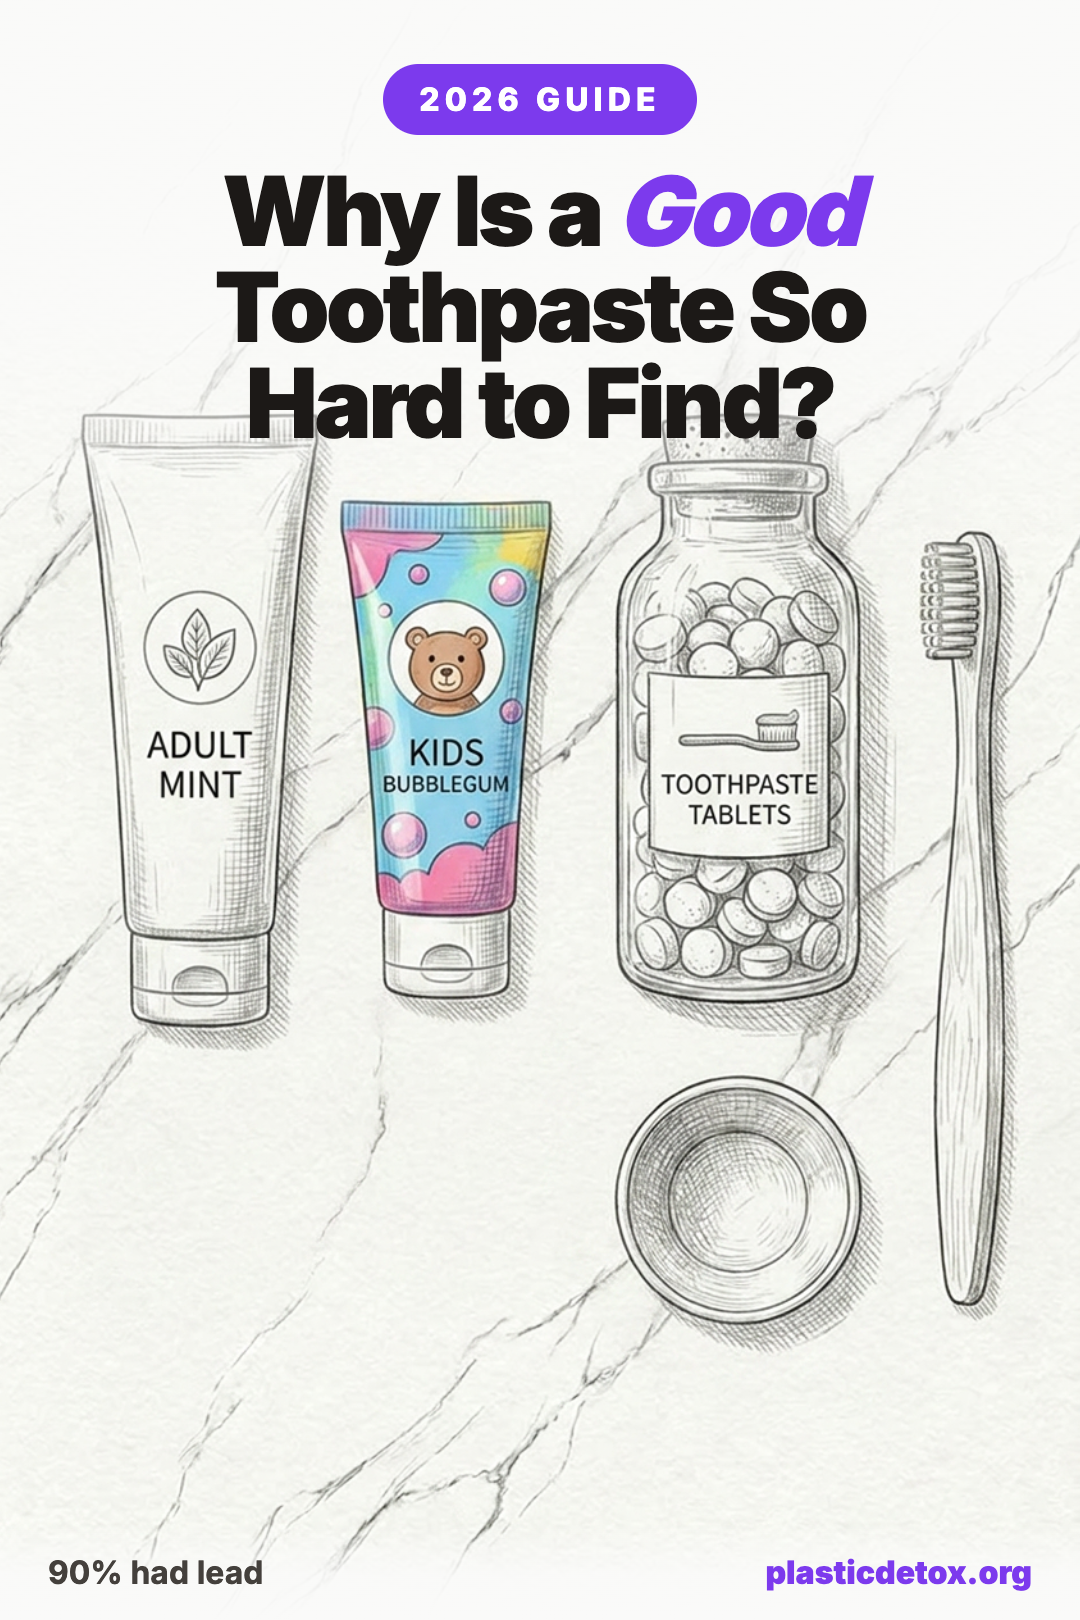
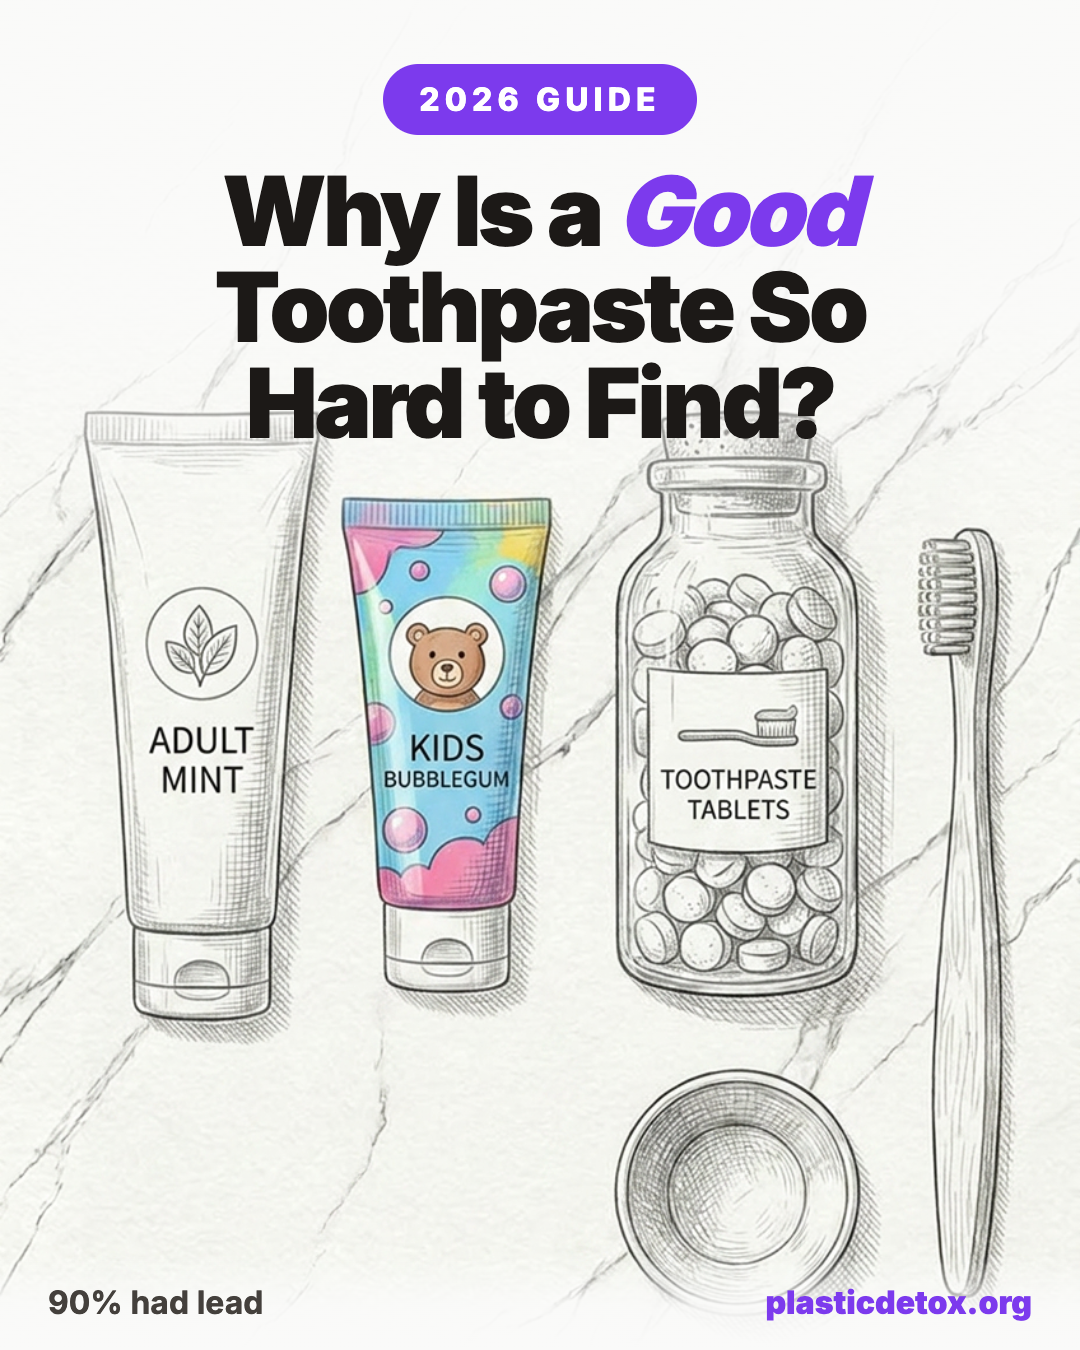
Toothpaste hero: rebuild at canonical 1080x1350 matching hidden-food reference
Render the hero at 1080x1350 (the actual site standard, like
hidden-food-processing-article-hero) using object-position top so the
products fill the frame and the empty marble bottom is cropped out, with
no distortion. Add the Pinterest Save button and full pin CSS to match the
reference. Ship under a new filename (v3) so browsers fetch it fresh.

diff --git a/articles/best-non-toxic-toothpaste-guide.html b/articles/best-non-toxic-toothpaste-guide.html
@@ -13,15 +13,15 @@
   <meta property="og:title" content="Best Non Toxic Toothpaste (2026): Why It Is So Hard to Find a Good One">
   <meta property="og:description" content="The real issues with fluoride, what independent lab tests found on mineral toothpastes and heavy metals, and why the formula matters more than the packaging. Plus the best hydroxyapatite and plastic free picks.">
   <meta property="og:url" content="https://plasticdetox.org/articles/best-non-toxic-toothpaste-guide.html">
-  <meta property="og:image" content="https://plasticdetox.org/images/toothpaste-article-hero-v2.webp">
+  <meta property="og:image" content="https://plasticdetox.org/images/toothpaste-article-hero-v3.webp">
   <meta property="og:image:width" content="1080">
-  <meta property="og:image:height" content="1620">
+  <meta property="og:image:height" content="1350">
   <meta property="og:site_name" content="Plastic Detox">
 
   <meta name="twitter:card" content="summary_large_image">
   <meta name="twitter:title" content="Best Non Toxic Toothpaste (2026): Why It Is So Hard to Find a Good One">
   <meta name="twitter:description" content="The real issues with fluoride, what independent lab tests found on mineral toothpastes and heavy metals, and why the formula matters more than the packaging.">
-  <meta name="twitter:image" content="https://plasticdetox.org/images/toothpaste-article-hero-v2.webp">
+  <meta name="twitter:image" content="https://plasticdetox.org/images/toothpaste-article-hero-v3.webp">
 
   <script type="application/ld+json">
   {
@@ -34,7 +34,7 @@
     "datePublished": "2026-06-18",
     "dateModified": "2026-06-18",
     "lastReviewed": "2026-06-18",
-    "image": "https://plasticdetox.org/images/toothpaste-article-hero-v2.webp",
+    "image": "https://plasticdetox.org/images/toothpaste-article-hero-v3.webp",
     "mainEntityOfPage": "https://plasticdetox.org/articles/best-non-toxic-toothpaste-guide.html"
   }
   </script>
@@ -153,6 +153,15 @@
   <link rel="stylesheet" href="../css/article.css">
   <style>
     .pin-container { position: relative; margin: 2rem 0; }
+    .pin-container:hover .pin-button { opacity: 1; }
+    .pin-button {
+      position: absolute; top: 16px; left: 16px; display: flex; align-items: center; gap: 6px;
+      background: #e60023; color: #fff; border: none; border-radius: 24px; padding: 10px 16px;
+      font-family: 'Inter', sans-serif; font-size: 0.85rem; font-weight: 700; cursor: pointer;
+      opacity: 0; transition: opacity 0.2s; z-index: 2; text-decoration: none; box-shadow: 0 2px 8px rgba(0,0,0,0.2);
+    }
+    .pin-button:hover { background: #ad081b; }
+    .pin-button svg { width: 18px; height: 18px; fill: #fff; }
     .pin-img { width: 100%; border-radius: var(--radius-sm); display: block; }
     .product-grid { display: grid; grid-template-columns: repeat(auto-fill, minmax(200px, 1fr)); gap: 1rem; margin: 1.5rem 0 2rem; }
     .product-card { background: var(--surface); border-radius: var(--radius); text-decoration: none; color: inherit; box-shadow: var(--shadow); transition: transform 0.2s, box-shadow 0.2s; display: flex; flex-direction: column; overflow: hidden; }
@@ -197,7 +206,11 @@
     <div class="article-meta">Updated June 18, 2026 · 21 min read · <em>This article contains affiliate links. If you purchase through our links, we may earn a small commission at no extra cost to you.</em></div>
 
     <div class="pin-container">
-      <img class="pin-img" fetchpriority="high" src="../images/toothpaste-article-hero-v2.webp" alt="Why is a good toothpaste so hard to find? Illustration of an adult mint tube, a kids bubblegum tube, a jar of toothpaste tablets, and a toothbrush on marble, with the note that 90 percent had lead" width="1080" height="1620">
+      <a class="pin-button" href="https://www.pinterest.com/pin/create/button/?url=https%3A%2F%2Fplasticdetox.org%2Farticles%2Fbest-non-toxic-toothpaste-guide.html&media=https%3A%2F%2Fplasticdetox.org%2Fimages%2Ftoothpaste-article-hero-v3.webp&description=Why%20is%20a%20good%20toothpaste%20so%20hard%20to%20find%3F%20Independent%20lab%20tests%20found%20lead%20in%2090%25%20of%20toothpastes.%20The%20truth%20about%20fluoride%20and%20hydroxyapatite%2C%20and%20the%20few%20that%20tested%20clean." target="_blank" rel="noopener">
+        <svg viewBox="0 0 24 24"><path d="M12 0C5.373 0 0 5.373 0 12c0 5.084 3.163 9.426 7.627 11.174-.105-.949-.2-2.405.042-3.441.218-.937 1.407-5.965 1.407-5.965s-.359-.719-.359-1.782c0-1.668.967-2.914 2.171-2.914 1.023 0 1.518.769 1.518 1.69 0 1.029-.655 2.568-.994 3.995-.283 1.194.599 2.169 1.777 2.169 2.133 0 3.772-2.249 3.772-5.495 0-2.873-2.064-4.882-5.012-4.882-3.414 0-5.418 2.561-5.418 5.207 0 1.031.397 2.138.893 2.738a.36.36 0 0 1 .083.345l-.333 1.36c-.053.22-.174.267-.402.161-1.499-.698-2.436-2.889-2.436-4.649 0-3.785 2.75-7.262 7.929-7.262 4.163 0 7.398 2.967 7.398 6.931 0 4.136-2.607 7.464-6.227 7.464-1.216 0-2.359-.631-2.75-1.378l-.748 2.853c-.271 1.043-1.002 2.35-1.492 3.146C9.57 23.812 10.763 24 12 24c6.627 0 12-5.373 12-12S18.627 0 12 0z"/></svg>
+        Save
+      </a>
+      <img class="pin-img" fetchpriority="high" src="../images/toothpaste-article-hero-v3.webp" alt="Why is a good toothpaste so hard to find? Illustration of an adult mint tube, a kids bubblegum tube, a jar of toothpaste tablets, and a toothbrush on marble, with the note that 90 percent had lead" width="1080" height="1350" data-pin-description="Why is a good toothpaste so hard to find? Independent lab tests found lead in 90% of toothpastes. The truth about fluoride and hydroxyapatite, and the few that tested clean.">
     </div>
 
     <div class="tldr-card">

diff --git a/images/sea-salt-myth-headline-only.html b/images/sea-salt-myth-headline-only.html
@@ -159,12 +159,12 @@
 
     <div class="description-card">
       <p>A study of 39 salt samples from 21 countries found microplastics in <strong>36 of them</strong>. Sea salt had the highest contamination, up to <span class="highlight">1,600 particles per kilogram</span>.</p>
-      <p>Mined rock salt was the cleanest. The contamination is in the salt itself. Switching from a plastic shaker to a glass one does nothing.</p>
+      <p>That study found mined rock salt cleanest, but newer studies have found Himalayan pink salt among the highest. The type of salt is not a reliable shortcut.</p>
     </div>
 
     <div class="bottom-line">
       <div class="bottom-line-label">What to do instead</div>
-      <p>Use mined salt. Redmond Real Salt (ancient Utah seabed) tests very low for microplastics. Himalayan pink salt and Celtic gray salt are also good options.</p>
+      <p>No salt type is reliably microplastic free, and mined salts carry trace heavy metals. Salt is a minor exposure route, so treat it as low priority next to water, air, and food.</p>
     </div>
 
     <div class="footer">

diff --git a/images/toothpaste-article-hero.html b/images/toothpaste-article-hero.html
@@ -15,7 +15,7 @@
     body { background: #d6d3d1; display: flex; justify-content: center; padding: 2rem; font-family: 'Inter', -apple-system, sans-serif; }
     .pin {
       width: 1080px;
-      height: 1620px;
+      height: 1350px;
       position: relative;
       overflow: hidden;
       background: #fafaf9;
@@ -24,6 +24,7 @@
       width: 100%;
       height: 100%;
       object-fit: cover;
+      object-position: center top;
       display: block;
     }
     .top-overlay {
